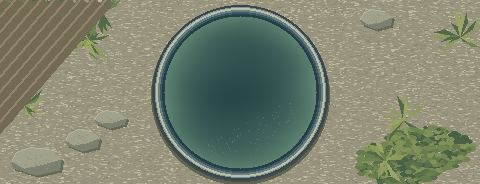
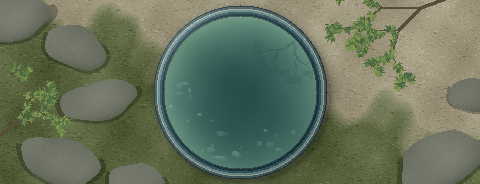
Refine ceramic glaze, water reflections and medaka silhouettes

diff --git a/index.html b/index.html
@@ -11,4 +11,4 @@
 <div class="layer" data-sound="waves"><button type="button" aria-label="浜辺の波を再生" aria-pressed="false"><span aria-hidden="true">▶</span><strong>浜辺の波</strong></button><input type="range" min="0" max="100" value="35" aria-label="浜辺の波の音量"><output>35%</output></div>
 <div class="layer" data-sound="falls"><button type="button" aria-label="森の小さな滝を再生" aria-pressed="false"><span aria-hidden="true">▶</span><strong>森の小さな滝</strong></button><input type="range" min="0" max="100" value="35" aria-label="森の小さな滝の音量"><output>35%</output></div>
 </div><details class="credits"><summary>録音クレジット</summary><p>エアポンプの泡音：<a href="https://freesound.org/people/CHallSmith/sounds/870769/">Aquarium Pump and Bubbles — CHallSmith</a>（<a href="https://creativecommons.org/publicdomain/zero/1.0/">CC0</a>）。音量とループを調整。</p><p>雨音：<a href="https://freesound.org/people/alex36917/sounds/524605/">rain ambience — alex36917</a><br>浜辺の波：<a href="https://freesound.org/people/Luftrum/sounds/48412/">oceanwavescrushing.wav — Luftrum</a><br>両音源は <a href="https://creativecommons.org/licenses/by/4.0/">CC BY 4.0</a>。Porrumentzio が編集した Blanket 版をループ用に調整。</p><p>森の小さな滝：<a href="https://freesound.org/people/Garuda1982/sounds/577820/">small waterfall in the forest sound effect — Garuda1982</a>（<a href="https://creativecommons.org/publicdomain/zero/1.0/">CC0</a>）。ループ用に調整。</p></details><p id="ambient-error" hidden role="alert"></p></section>
-</main><script src="reef.js?v=wetlands"></script><script src="app.js?v=cycle1"></script><script src="ambience.js?v=tankpump"></script></body></html>
+</main><script src="reef.js?v=glaze"></script><script src="app.js?v=cycle1"></script><script src="ambience.js?v=tankpump"></script></body></html>

diff --git a/reef.js b/reef.js
@@ -313,7 +313,7 @@
   const art=new Image();
   shoreArt[id]=art;
   art.onload=()=>{if(habitat===id)draw()};
-  art.src='scenery/'+id+'.png'+(id==='goldfish'?'?v=submerged':id==='medaka'?'?v=outdoor':'');
+  art.src='scenery/'+id+'.png'+(id==='goldfish'?'?v=submerged':id==='medaka'?'?v=glaze':'');
  }
  // Each koi keeps its own flank markings as it swims and turns.
  const koiCoats=[
@@ -409,13 +409,20 @@
   box(-3,-5,3,2,fin);box(-1,-3,4,2,light);box(3,-2,3,2,fin);
   box(1,2,2,3,fin);box(5,-1,1,1,'#312f30');c.restore()
  }
+ const medakaCoats=[
+  ['#9b997c','#d4c79e'],['#cd9662','#f1c892'],['#a5b8b2','#e0e9dc']
+ ];
  function drawMedaka(fish){
-  c.save();c.translate(Math.round(fish.x),Math.round(fish.y));c.rotate(fish.heading);
-  const body=['#acaa83','#e7b477','#cfd4bc'][fish.coat];
+  const [flank,back]=medakaCoats[fish.coat];
   const bend=tailBend(fish);
-  box(-5,-1+bend,2,2,'#9da58c');box(-3,bend*.4,3,1,body);
-  box(-1,-1,4,3,body);box(2,-1,2,3,body);box(0,0,3,1,'#f3dcab');
-  box(2,-1,1,1,'#435754');box(2,1,1,1,'#435754');c.restore()
+  c.save();c.translate(Math.round(fish.x)+2,Math.round(fish.y)+3);c.rotate(fish.heading);
+  box(-3,-1,6,2,'rgba(16,48,49,.26)');c.restore();
+  c.save();c.translate(Math.round(fish.x),Math.round(fish.y));c.rotate(fish.heading);
+  box(-7,bend-1,2,3,'rgba(194,209,186,.55)');
+  box(-5,bend*.65,3,1,flank);box(-3,-1+bend*.2,4,2,flank);
+  box(-1,-1,5,3,flank);box(-1,-1,4,1,back);box(3,0,2,1,back);
+  box(0,1,1,2,'rgba(199,216,195,.5)');
+  box(3,-1,1,1,'#364948');box(3,1,1,1,'#364948');c.restore()
  }
  // Frogbit rosettes float on the surface, above the swimming medaka.
  const frogbitLeaves=[
